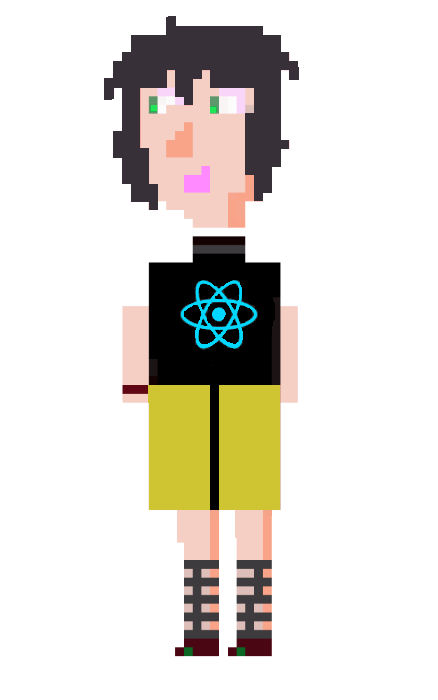
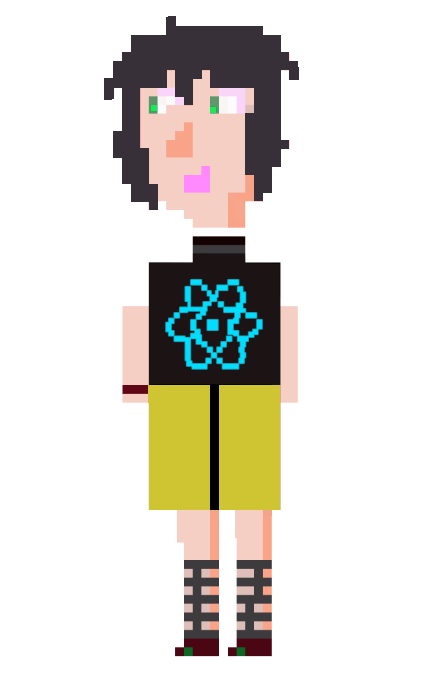
cambio imagen

Changed region(s): [[0.3265, 0.36, 0.653, 0.57]]

diff --git a/pages/about/About.js b/pages/about/About.js
@@ -42,7 +42,7 @@ const About = () => {
         </div>
         <div className={styles.boxImage}>
           <Image
-            src="/Images/character2.png"
+            src="/Images/character.png"
             width="200"
             height="450"
             className={styles.image}
